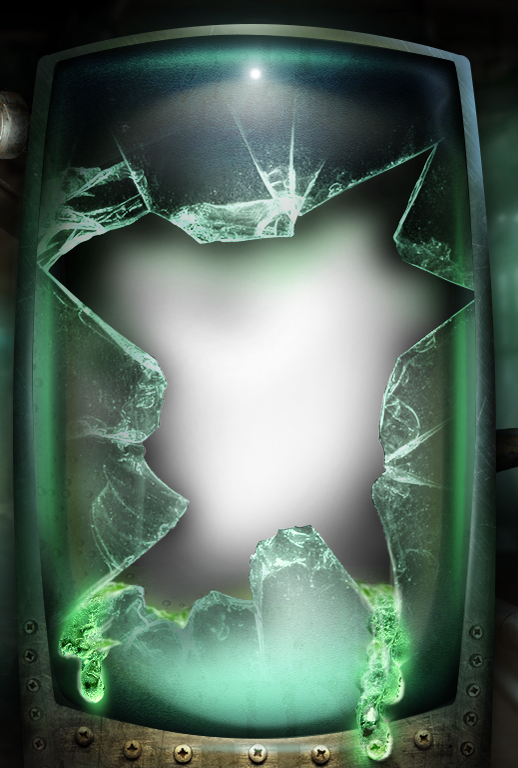
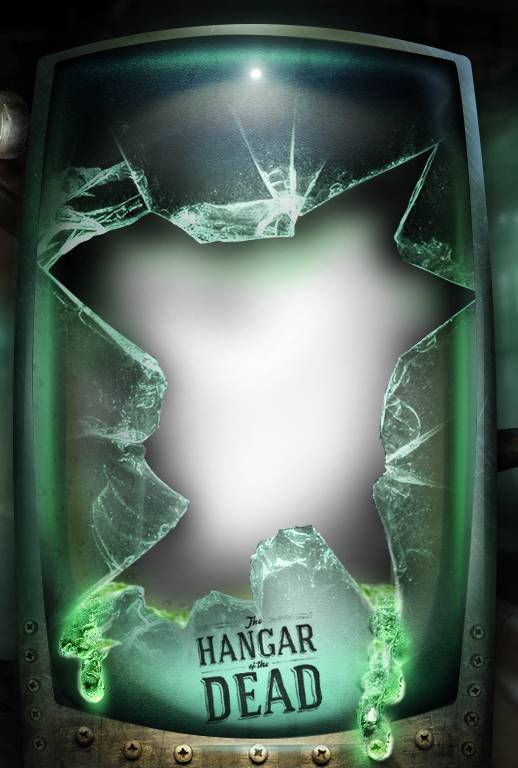
Add new booth and fix process issue

diff --git a/process.php b/process.php
@@ -14,6 +14,7 @@ if(isset($_POST['data']) && isset($_POST['filename']) && isset($_POST['filter'])
 	$image_src = base64_decode($image_src);
 
 	$filename = $_POST['filename'];
+
 	$filter = $_POST['filter'];
 	$headline = $_POST['headline'];
 
@@ -42,7 +43,9 @@ if(isset($_POST['data']) && isset($_POST['filename']) && isset($_POST['filter'])
 /** Apply and deliver the image and clean up */
 function gd_filter_image($image_path, $filter_name, $headline)
 {
+	
 	$filter = 'gd_filter_' . $filter_name;
+
 	if (function_exists($filter)) {
 		list($width, $height) = getimagesize($image_path);
 		
@@ -53,11 +56,12 @@ function gd_filter_image($image_path, $filter_name, $headline)
 		$im = $filter($im);
 
 		
-		if($headline == 'undefined'){
+		if($headline == ''){
 			$name_container_image   = 'booth/booth.png';			
 		} else {
 			$name_container_image   = 'booth/booth'.$headline.'.png';			
 		}
+		
 		$name_merged_image      = $image_path;
 
 		$base_image             = $im;
@@ -79,6 +83,35 @@ function gd_filter_image($image_path, $filter_name, $headline)
 		// imagedestroy($src);
 			
 
+	} else {
+
+		list($width, $height) = getimagesize($image_path);
+		
+		$im = imagecreatetruecolor($width, $height);
+		$src = imagecreatefromjpeg($image_path);
+		imagecopyresampled($im, $src, 0, 0, 0, 0, $width, $height, $width, $height);
+
+		if($headline == ''){
+			$name_container_image   = 'booth/booth.png';			
+		} else {
+			$name_container_image   = 'booth/booth'.$headline.'.png';			
+		}
+		
+		$name_merged_image      = $image_path;
+
+		$base_image             = $im;
+		$container_image        = imagecreatefrompng( $name_container_image );
+		list( $width, $height ) = getimagesize( $name_container_image );
+
+		imagesavealpha( $container_image, TRUE );
+		imagealphablending( $container_image, TRUE );
+
+		// header( 'Content-Type: image/png' );
+		imagecopy( $base_image, $container_image, 0, 0, 0, 0, $width, $height );
+		// imagepng( $base_image );
+		imagepng( $base_image, $name_merged_image );
+
+		return $name_merged_image;
 	}
 }
 
